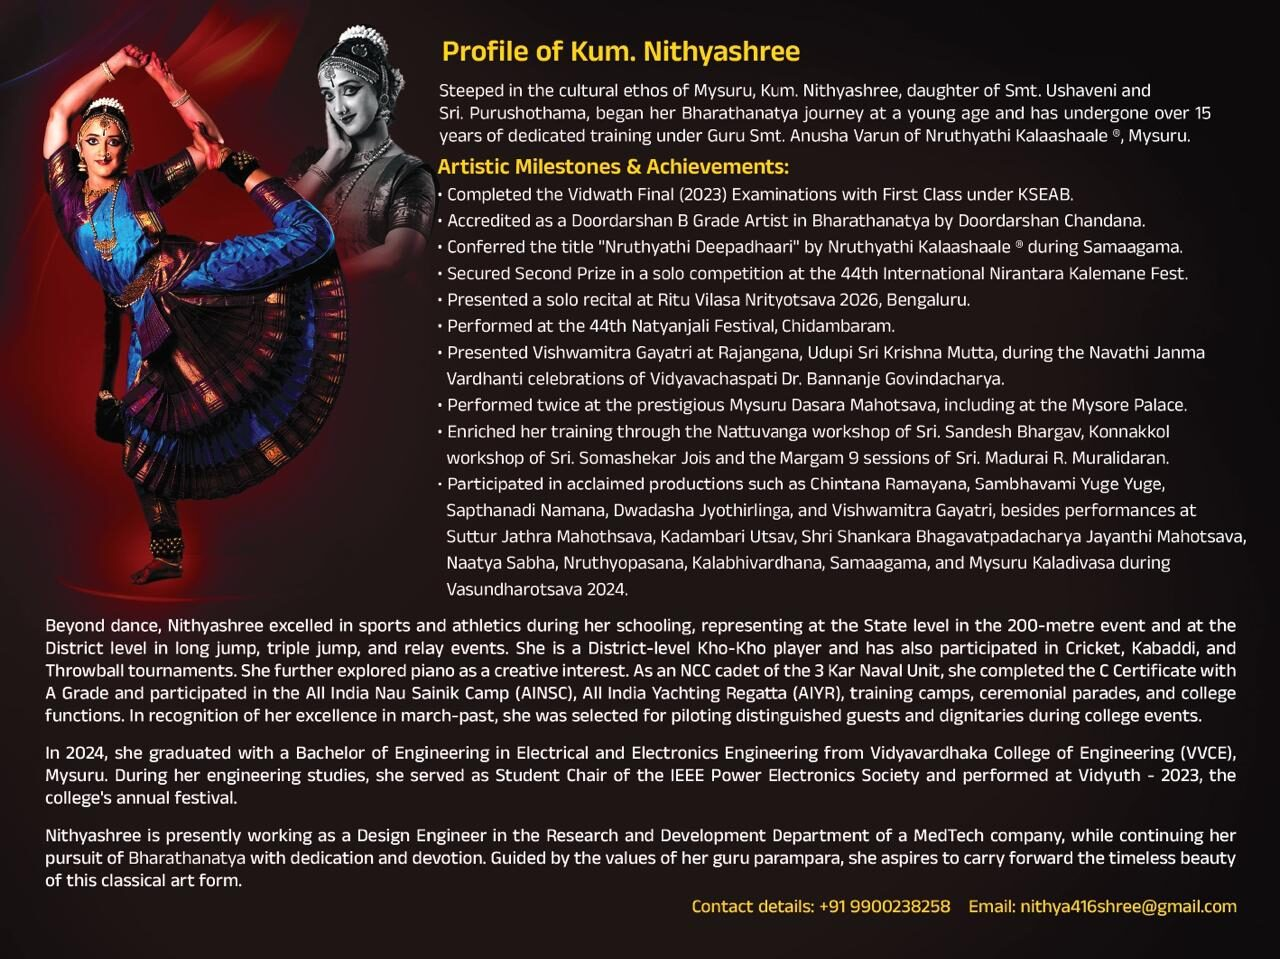
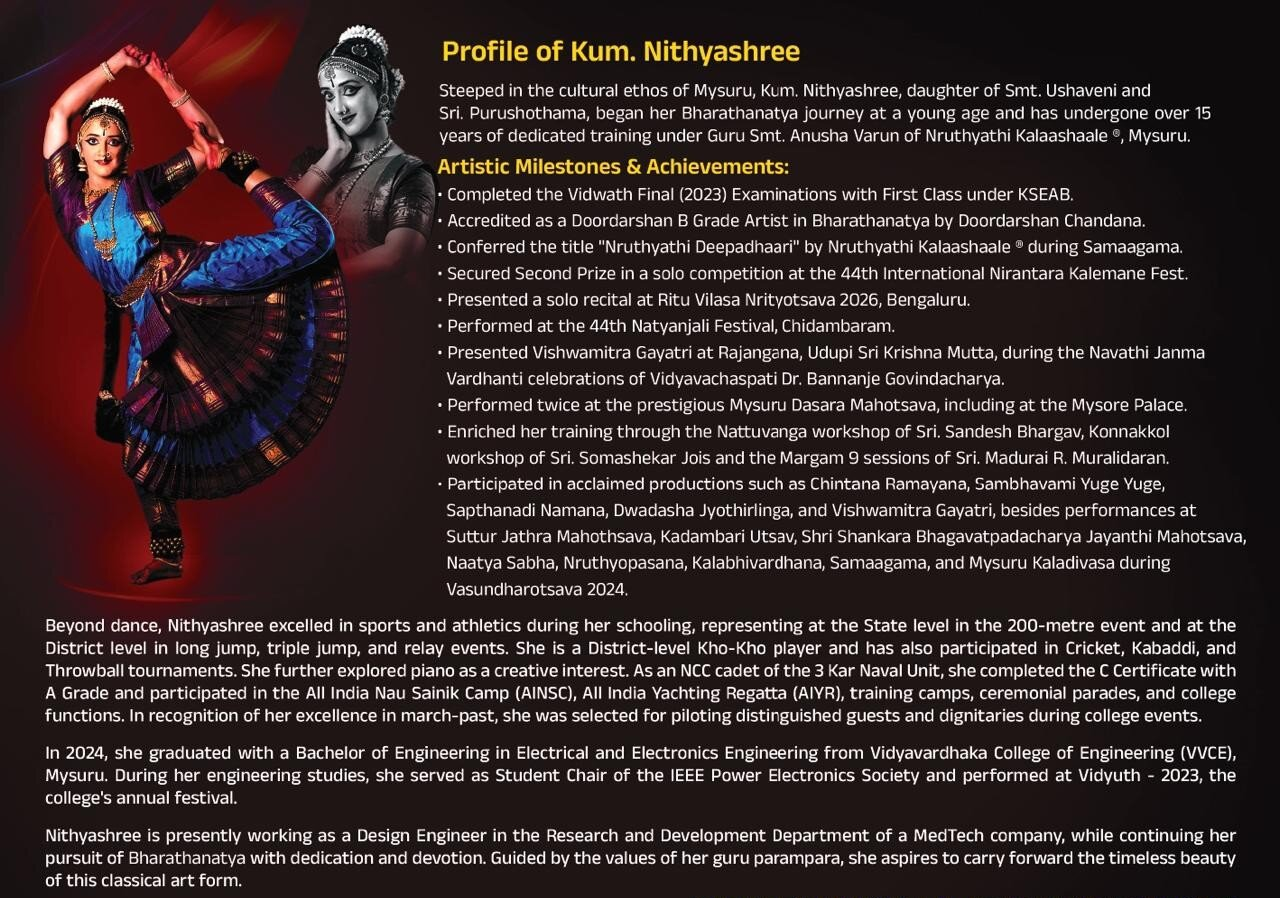
Redesign featured event card and swap in cropped brochure photo
- Rangavidhipraveshika event card is now full-width and shows the
  brochure photo directly (clickable to view full-size) instead of
  hiding it behind a "View Brochure" button
- Samaagama now sits below as its own full-width card for visual
  consistency
- Replaced the brochure image with the cropped version (personal
  phone number and email removed) that will now be much more visible
  on the page

diff --git a/index.html b/index.html
@@ -368,24 +368,28 @@
         <div class="h-[1px] w-24 bg-gradient-to-r from-transparent via-[#d4af37] to-transparent mx-auto mt-6 opacity-80"></div>
       </div>
 
-      <div class="grid md:grid-cols-2 gap-10 lg:gap-14 max-w-6xl mx-auto">
+      <div class="flex flex-col gap-10 lg:gap-14 max-w-5xl mx-auto">
 
-        <div class="group p-[1px] bg-gradient-to-b from-[#d4af37]/40 to-transparent rounded-[2.5rem]" data-aos="fade-right" data-aos-duration="1000">
-          <div class="h-full bg-[#3a0303] rounded-[2.4rem] p-10 md:p-16 relative overflow-hidden transition-all duration-500 group-hover:bg-[#430404] shadow-2xl">
-            <div class="absolute top-0 right-0 px-5 py-2 md:px-8 md:py-3 bg-[#d4af37] text-[#4a0404] font-bold text-[9px] md:text-[10px] uppercase tracking-widest rounded-bl-3xl font-sans whitespace-nowrap">
+        <!-- Featured event: Rangavidhipraveshika, photo visible -->
+        <div class="group p-[1px] bg-gradient-to-b from-[#d4af37]/40 to-transparent rounded-[2.5rem]" data-aos="fade-up" data-aos-duration="1000">
+          <div class="bg-[#3a0303] rounded-[2.4rem] relative overflow-hidden shadow-2xl md:grid md:grid-cols-[42%_1fr]">
+            <div class="absolute top-4 right-4 md:top-6 md:right-6 z-20 px-5 py-2 bg-[#d4af37] text-[#4a0404] font-bold text-[9px] md:text-[10px] uppercase tracking-widest rounded-full font-sans whitespace-nowrap shadow-lg">
               Upcoming
             </div>
 
-            <div class="text-left pt-6 md:pt-0">
-              <div class="flex items-center gap-4 mb-6">
-                <img src="images/events/nithyashree/portrait.jpg" alt="Kum. Nithyashree" loading="lazy" class="w-14 h-14 md:w-16 md:h-16 rounded-full object-cover border-2 border-[#d4af37]/60 shrink-0">
-                <div class="min-w-0">
-                  <h3 class="text-xl sm:text-2xl md:text-3xl font-bold text-[#d4af37] uppercase tracking-wide md:tracking-wider royal-font leading-tight break-words">
-                    Rangavidhipraveshika
-                  </h3>
-                  <p class="text-white/60 text-[10px] uppercase tracking-[0.3em] font-sans mt-1">Kum. Nithyashree</p>
-                </div>
-              </div>
+            <a href="images/events/nithyashree/brochure.jpg" target="_blank" rel="noopener" class="block relative h-72 md:h-full group/photo">
+              <img src="images/events/nithyashree/brochure.jpg" alt="Kum. Nithyashree — Rangapravesha brochure" loading="lazy" class="w-full h-full object-cover object-top">
+              <span class="absolute inset-0 bg-gradient-to-t from-black/50 via-black/0 to-black/0 md:bg-gradient-to-r md:from-transparent md:via-transparent md:to-[#3a0303]/40"></span>
+              <span class="absolute bottom-4 left-4 md:bottom-6 md:left-6 text-white/90 text-[10px] font-bold uppercase tracking-[0.2em] font-sans flex items-center gap-2 opacity-0 group-hover/photo:opacity-100 transition-opacity">
+                <i class="fas fa-expand"></i> View Full Brochure
+              </span>
+            </a>
+
+            <div class="text-left p-8 md:p-12">
+              <h3 class="text-2xl sm:text-3xl md:text-4xl font-bold text-[#d4af37] uppercase tracking-wide md:tracking-wider royal-font leading-tight break-words mb-1">
+                Rangavidhipraveshika
+              </h3>
+              <p class="text-white/60 text-[10px] uppercase tracking-[0.3em] font-sans mb-6">Kum. Nithyashree</p>
               <p class="text-white/80 text-base font-light leading-relaxed tracking-wide font-sans mb-6">
                 The monumental solo stage debut of our senior disciple — a spiritual journey translated through rhythmic perfection and technical mastery.
               </p>
@@ -396,26 +400,26 @@
               </div>
               <div class="flex flex-wrap gap-3">
                 <a href="images/events/nithyashree/invitation-1.jpg" target="_blank" rel="noopener" class="border border-[#d4af37]/50 text-[#d4af37] px-6 py-3 rounded-full font-bold text-[10px] tracking-widest hover:bg-[#d4af37] hover:text-[#4a0404] transition-all"><i class="fas fa-envelope-open-text mr-2"></i>View Invitation</a>
-                <a href="images/events/nithyashree/brochure.jpg" target="_blank" rel="noopener" class="border border-[#d4af37]/50 text-[#d4af37] px-6 py-3 rounded-full font-bold text-[10px] tracking-widest hover:bg-[#d4af37] hover:text-[#4a0404] transition-all"><i class="fas fa-book-open mr-2"></i>View Brochure</a>
               </div>
             </div>
           </div>
         </div>
 
-        <div class="group p-[1px] bg-gradient-to-b from-[#d4af37]/40 to-transparent rounded-[2.5rem]" data-aos="fade-left" data-aos-duration="1000" data-aos-delay="150">
-          <div class="h-full bg-[#3a0303] rounded-[2.4rem] p-10 md:p-16 relative overflow-hidden transition-all duration-500 group-hover:bg-[#430404] shadow-2xl">
+        <!-- Samaagama -->
+        <div class="group p-[1px] bg-gradient-to-b from-[#d4af37]/40 to-transparent rounded-[2.5rem]" data-aos="fade-up" data-aos-duration="1000" data-aos-delay="150">
+          <div class="bg-[#3a0303] rounded-[2.4rem] p-10 md:p-14 relative overflow-hidden transition-all duration-500 group-hover:bg-[#430404] shadow-2xl">
             <div class="absolute top-0 right-0 px-8 py-3 bg-[#d4af37] text-[#4a0404] font-bold text-[10px] uppercase tracking-widest rounded-bl-3xl font-sans">
               Annual Festival
             </div>
 
             <div class="text-left">
-              <h3 class="text-3xl md:text-4xl font-bold text-[#d4af37] mb-8 uppercase tracking-wider royal-font leading-tight">
-                Samaagama<br>2026
+              <h3 class="text-3xl md:text-4xl font-bold text-[#d4af37] mb-6 uppercase tracking-wider royal-font leading-tight">
+                Samaagama 2026
               </h3>
-              <p class="text-white/80 text-lg font-light leading-relaxed tracking-wide font-sans mb-8">
+              <p class="text-white/80 text-lg font-light leading-relaxed tracking-wide font-sans mb-8 max-w-2xl">
                 Our flagship annual celebration. Witness the collective energy of our students in a grand showcase of Indian classical excellence.
               </p>
-              <div class="mt-auto flex items-center gap-3 text-[#d4af37] text-[11px] font-bold tracking-[0.2em] uppercase font-sans">
+              <div class="flex items-center gap-3 text-[#d4af37] text-[11px] font-bold tracking-[0.2em] uppercase font-sans">
                 <span class="w-2 h-2 bg-[#d4af37] rounded-full animate-pulse"></span>
                 Annual Showcase
               </div>
